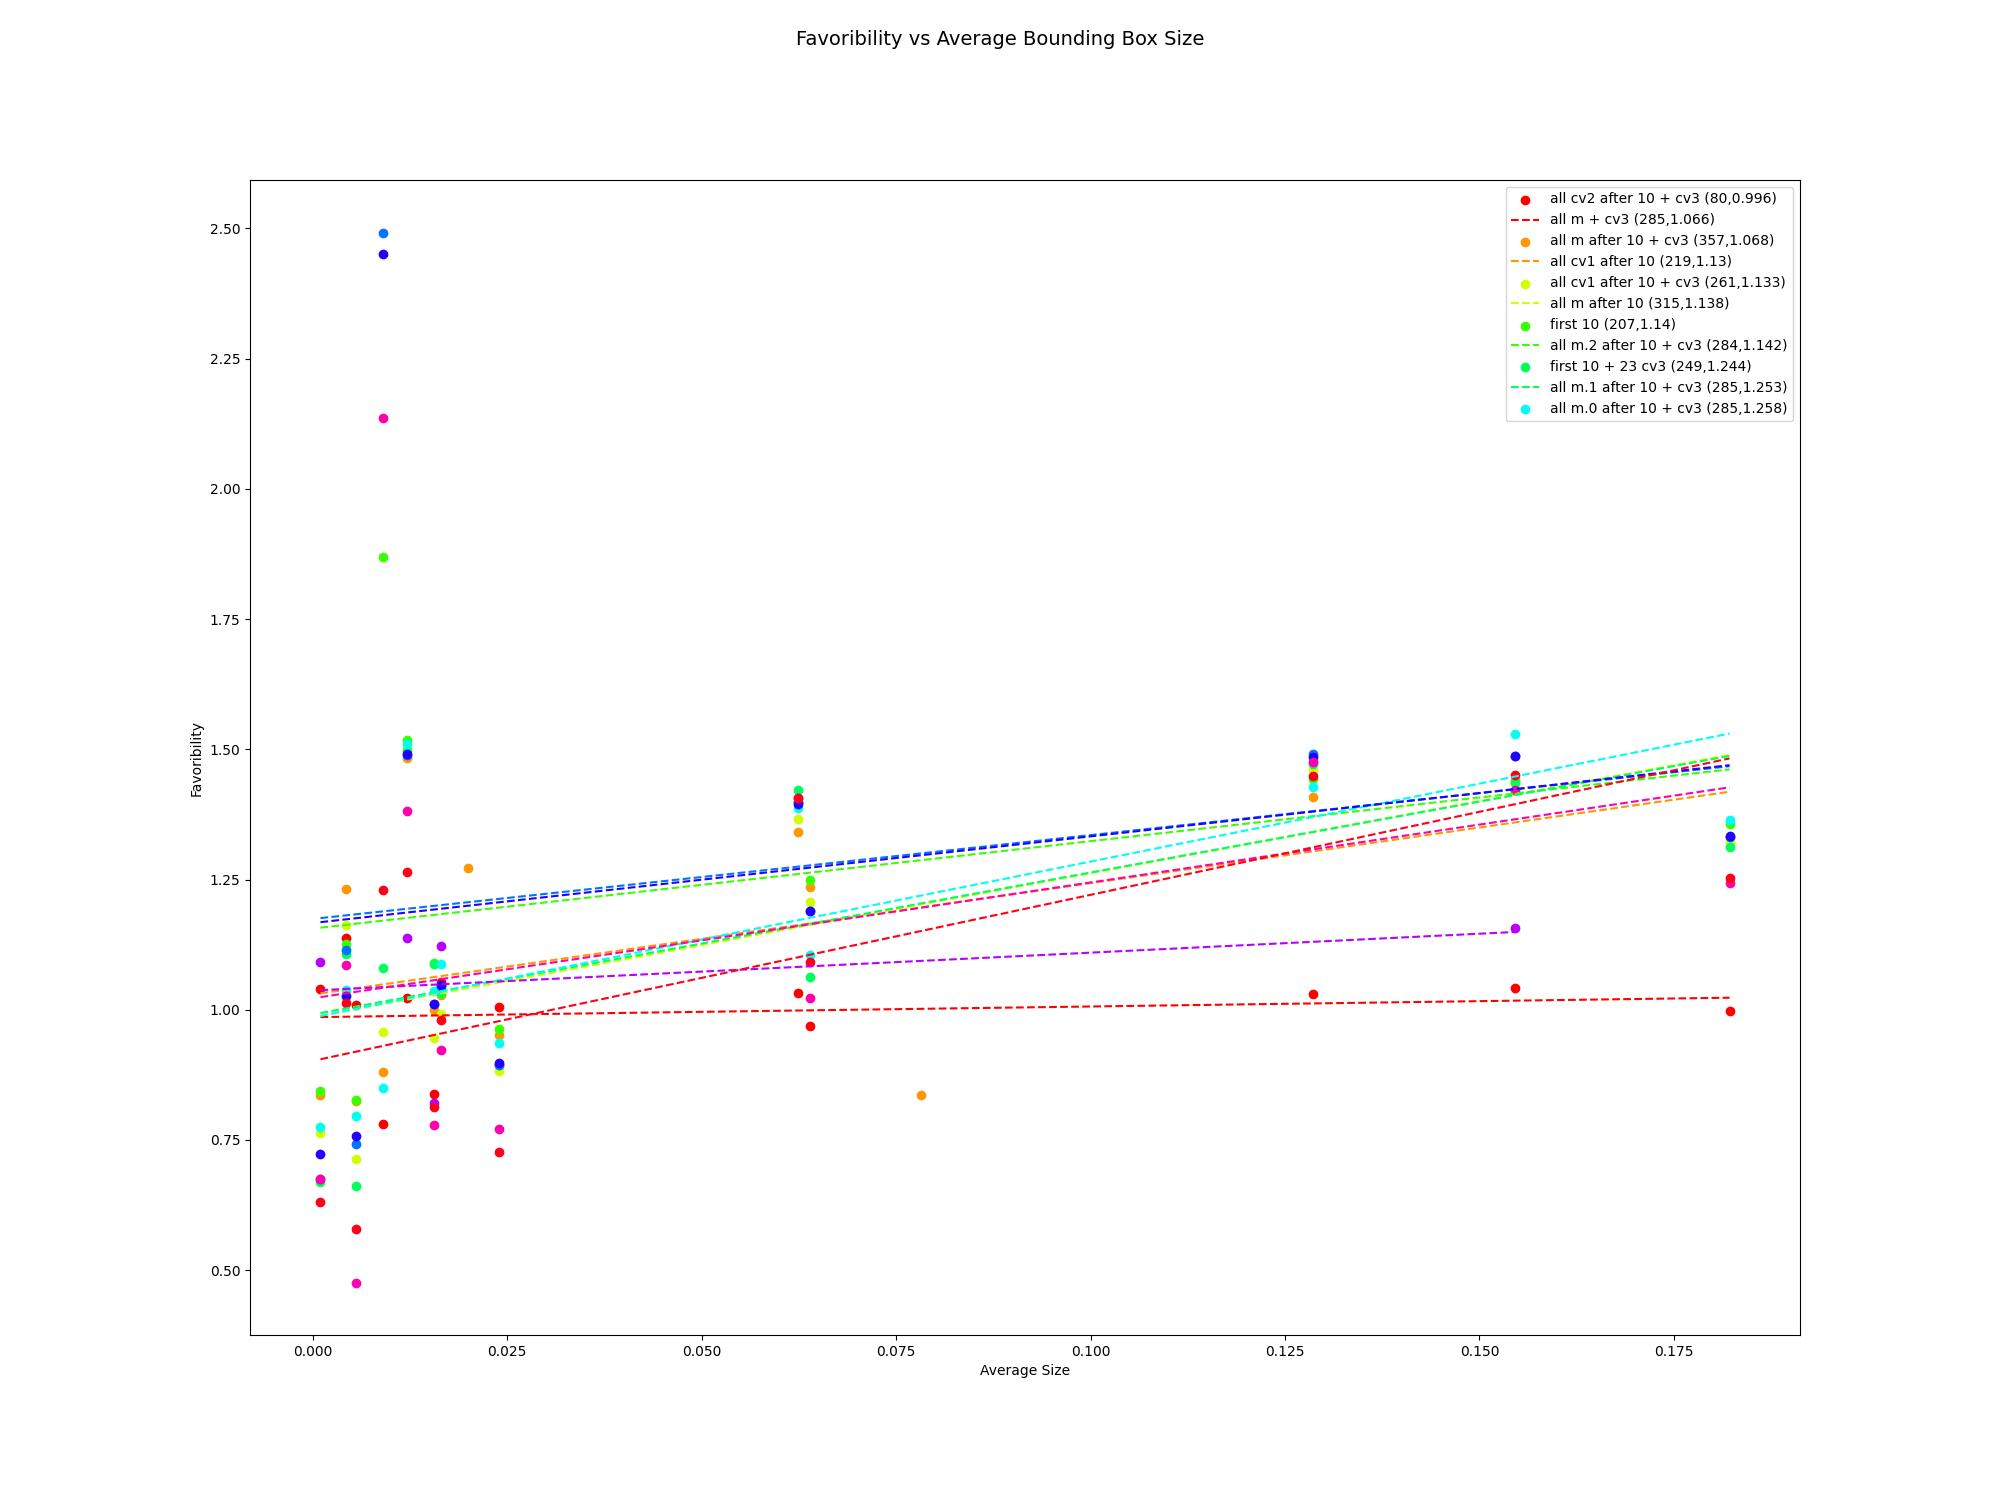
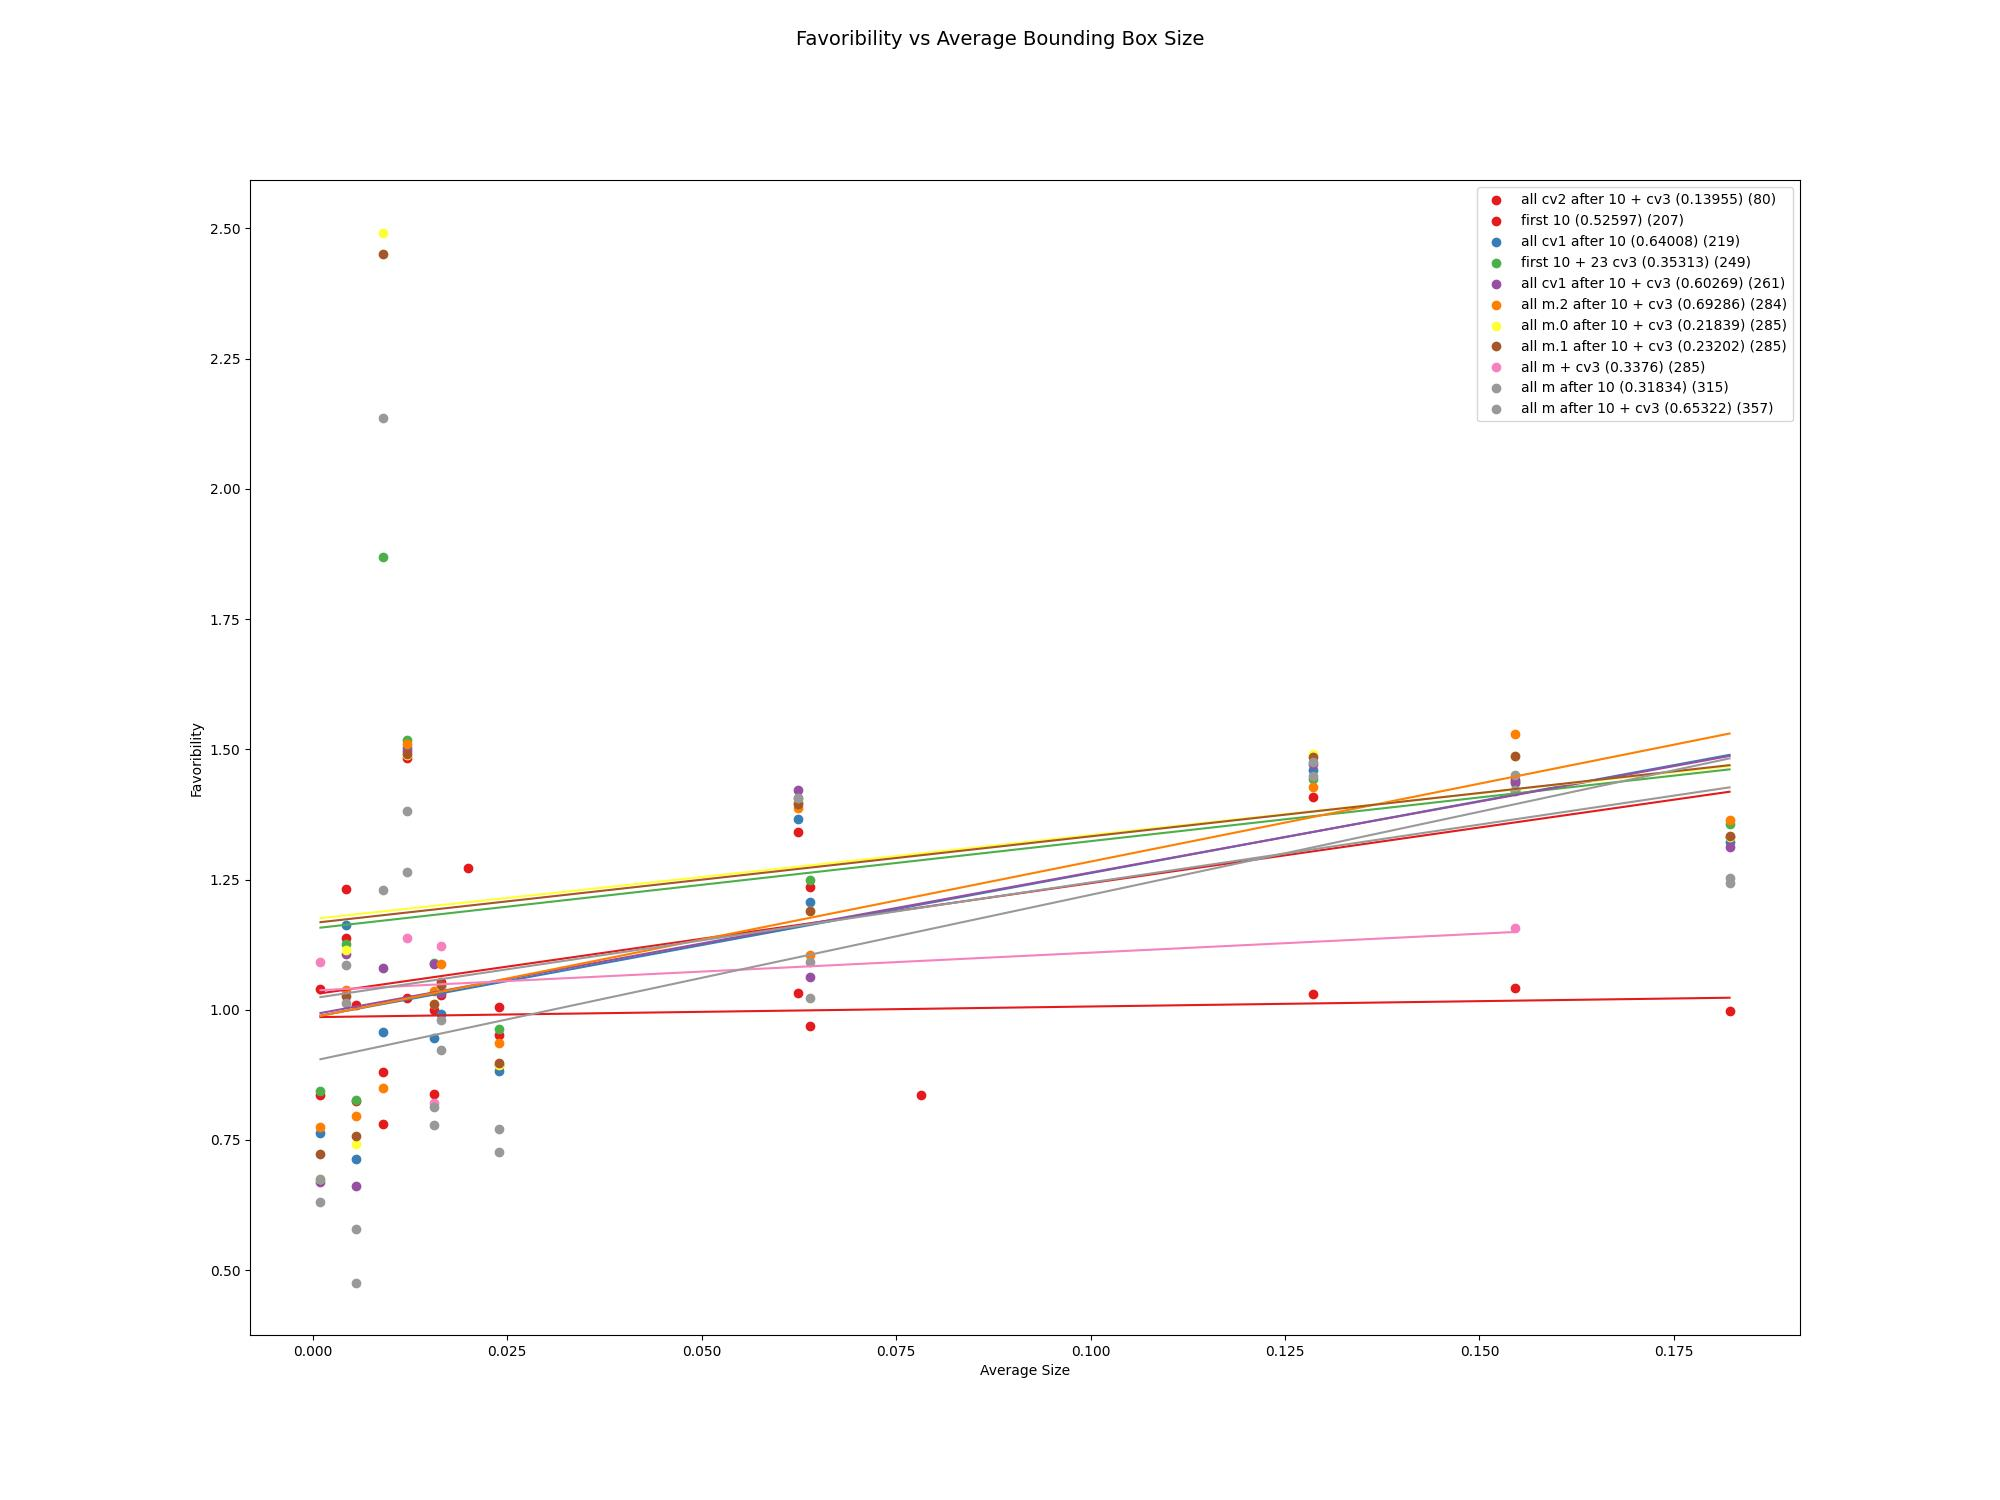
combined results again

diff --git a/saveData.py b/saveData.py
@@ -293,7 +293,7 @@ def plotDataScatterByGradientTotal(mAPs, trainingTimes, file="", unfrozenKey = "
     plt.savefig(save_dir + f'/results/{file}results.jpg', format='jpg')
     plt.close()
 
-def plotDataLineByGradientTotal(mAPs, trainingTimes, name="",file="", unfrozenKey = "unfrozen",datasetAttribute = "size",dontIgnore=[""],ignoreDataset=[""]):
+def plotDataLineByGradientTotal(mAPs, trainingTimes, name="",file="",correCutoff=0, yLimToLSRL = False,unfrozenKey = "unfrozen",datasetAttribute = "size",dontIgnore=[""],ignoreDataset=[""]):
     defaultKeys = list(mAPs.keys())
     unfrozenExists = (unfrozenKey in defaultKeys)
     keys = defaultKeys
@@ -312,6 +312,7 @@ def plotDataLineByGradientTotal(mAPs, trainingTimes, name="",file="", unfrozenKe
 
     annotations = {}
     averages = {}
+    lines = []
 
     for i, grad in enumerate(keys):
         datasets = [x for x in list(mAPs[grad].keys())]
@@ -345,13 +346,20 @@ def plotDataLineByGradientTotal(mAPs, trainingTimes, name="",file="", unfrozenKe
         z=np.polyfit(NxVals,NyVals,1)
         p=np.poly1d(z)
 
-        Cmap=cm.get_cmap('hsv',len(keys))
+        Cmap=cm.get_cmap('Set1',len(keys))
 
 
         x = np.linspace(SxVals[0],SxVals[-1],5000)
 
-        plt.scatter(SxVals,SyVals,c=Cmap(i))
-        plt.plot(x,p(x),linestyle='dashed',c=Cmap(i))
+        corrCoe = np.corrcoef(NxVals,NyVals)
+        if(abs(corrCoe[1][0])>correCutoff):
+            plt.scatter(SxVals,SyVals,c=Cmap(i),label=f"{grad} ({round(corrCoe[1][0],5)}) ({freezeData[grad]})")
+            plt.plot(x,p(x),c=Cmap(i))
+
+            lines.append(p)
+    
+    if(len(lines) == 0):
+        return
 
 
     # for key,val in annotations.items():
@@ -371,9 +379,20 @@ def plotDataLineByGradientTotal(mAPs, trainingTimes, name="",file="", unfrozenKe
         plt.suptitle("Favoribility vs # of Training Images", fontsize=14)
     plt.ylabel("Favoribility")
 
+    if(yLimToLSRL):
+        xMinMax = plt.xlim()
+        
+        MyVals = []
+        for lin in lines:
+            MyVals.append(lin(xMinMax[0]))
+            MyVals.append(lin(xMinMax[1]))
+        ylim = [min(MyVals),max(MyVals)]
+        plt.ylim([(ylim[0]-0.1*(ylim[1]-ylim[0])), (ylim[1]+0.1*(ylim[1]-ylim[0]))])
+
     legendLabels = keys
     legendLabels = sorted(keys, key=averages.get)
-    plt.legend([f"{x} ({freezeData[x]},{round(averages[x],3)})" for x in legendLabels], loc="best")
+    #plt.legend([f"{x} ({freezeData[x]},{round(averages[x],3)})" for x in legendLabels], loc="best")
+    plt.legend(loc="best")
     plt.savefig(save_dir + f'/results/{file}results.jpg', format='jpg')
     plt.close()
 

diff --git a/readJSONData.py b/readJSONData.py
@@ -148,5 +148,15 @@ def combineResults(save_dir=d_save_dir,
     saveData.plotDataLineByGradientTotal(NmAP,NTrainT,file="Relative Size ",datasetAttribute="size",dontIgnore=ig,ignoreDataset=datasetIgnore)
     saveData.plotDataLineByGradientTotal(NmAP,NTrainT,file="Relative Count ",datasetAttribute="count",dontIgnore=ig,ignoreDataset=datasetIgnore)
 
+    saveData.plotDataLineByGradientTotal(NmAP,NTrainT,file="Relative LSRL Class ",yLimToLSRL=True,datasetAttribute="classes", dontIgnore = ig,ignoreDataset=datasetIgnore)
+    saveData.plotDataLineByGradientTotal(NmAP,NTrainT,file="Relative LSRL Ratio ",yLimToLSRL=True,datasetAttribute="ratio", dontIgnore = ig,ignoreDataset=datasetIgnore)
+    saveData.plotDataLineByGradientTotal(NmAP,NTrainT,file="Relative LSRL Size ",yLimToLSRL=True,datasetAttribute="size",dontIgnore=ig,ignoreDataset=datasetIgnore)
+    saveData.plotDataLineByGradientTotal(NmAP,NTrainT,file="Relative LSRL Count ",yLimToLSRL=True,datasetAttribute="count",dontIgnore=ig,ignoreDataset=datasetIgnore)
+
+    saveData.plotDataLineByGradientTotal(NmAP,NTrainT,file="Relative Cutoff Class ",correCutoff=0.5,yLimToLSRL=True,datasetAttribute="classes",ignoreDataset=datasetIgnore)
+    saveData.plotDataLineByGradientTotal(NmAP,NTrainT,file="Relative Cutoff Ratio ",correCutoff=0.5,yLimToLSRL=True,datasetAttribute="ratio",ignoreDataset=datasetIgnore)
+    saveData.plotDataLineByGradientTotal(NmAP,NTrainT,file="Relative Cutoff Size ",correCutoff=0.5,yLimToLSRL=True,datasetAttribute="size",ignoreDataset=datasetIgnore)
+    saveData.plotDataLineByGradientTotal(NmAP,NTrainT,file="Relative Cutoff Count ",correCutoff=0.5,yLimToLSRL=True,datasetAttribute="count",ignoreDataset=datasetIgnore)
+
 if __name__ == "__main__":
     combineResults()
